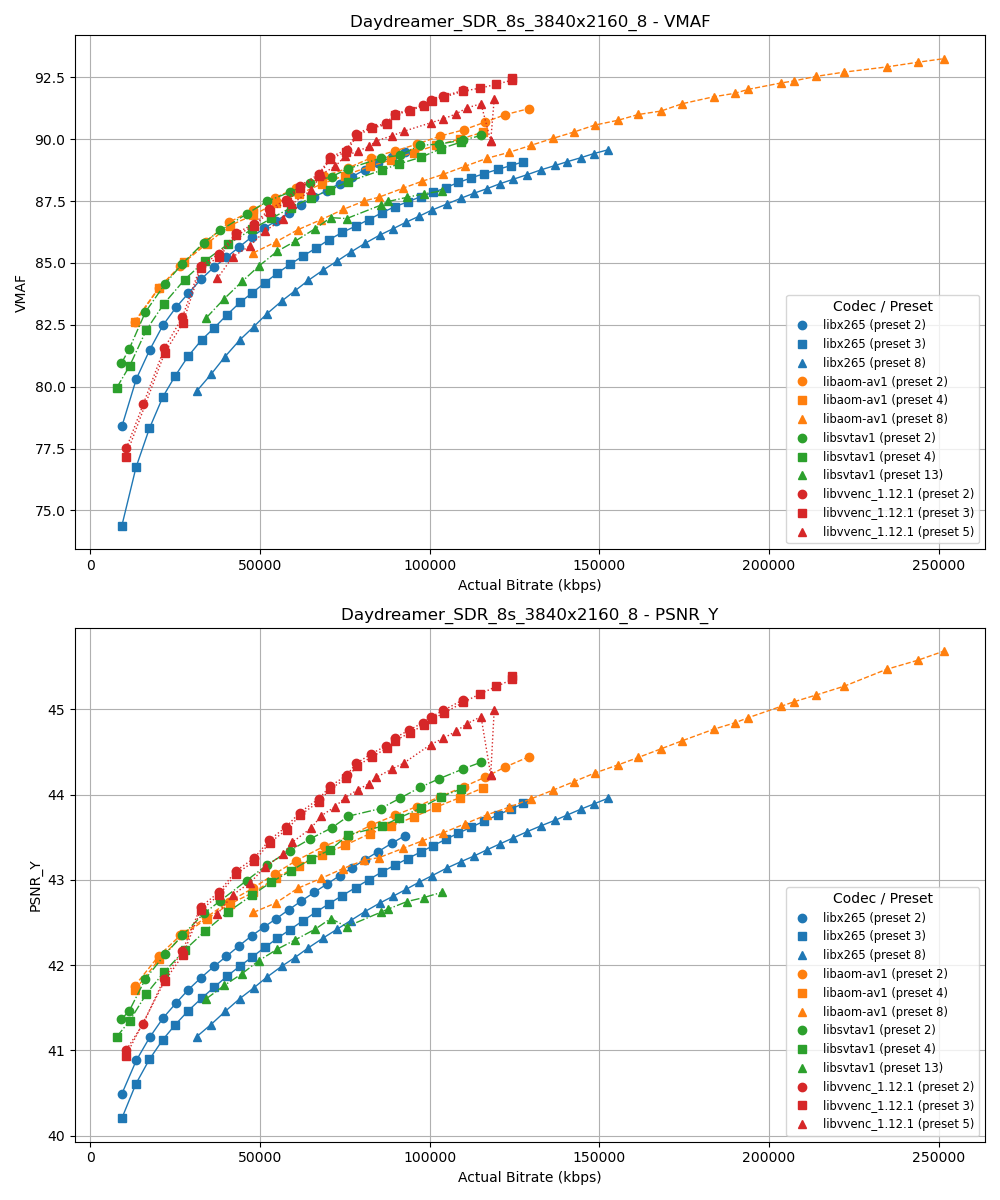
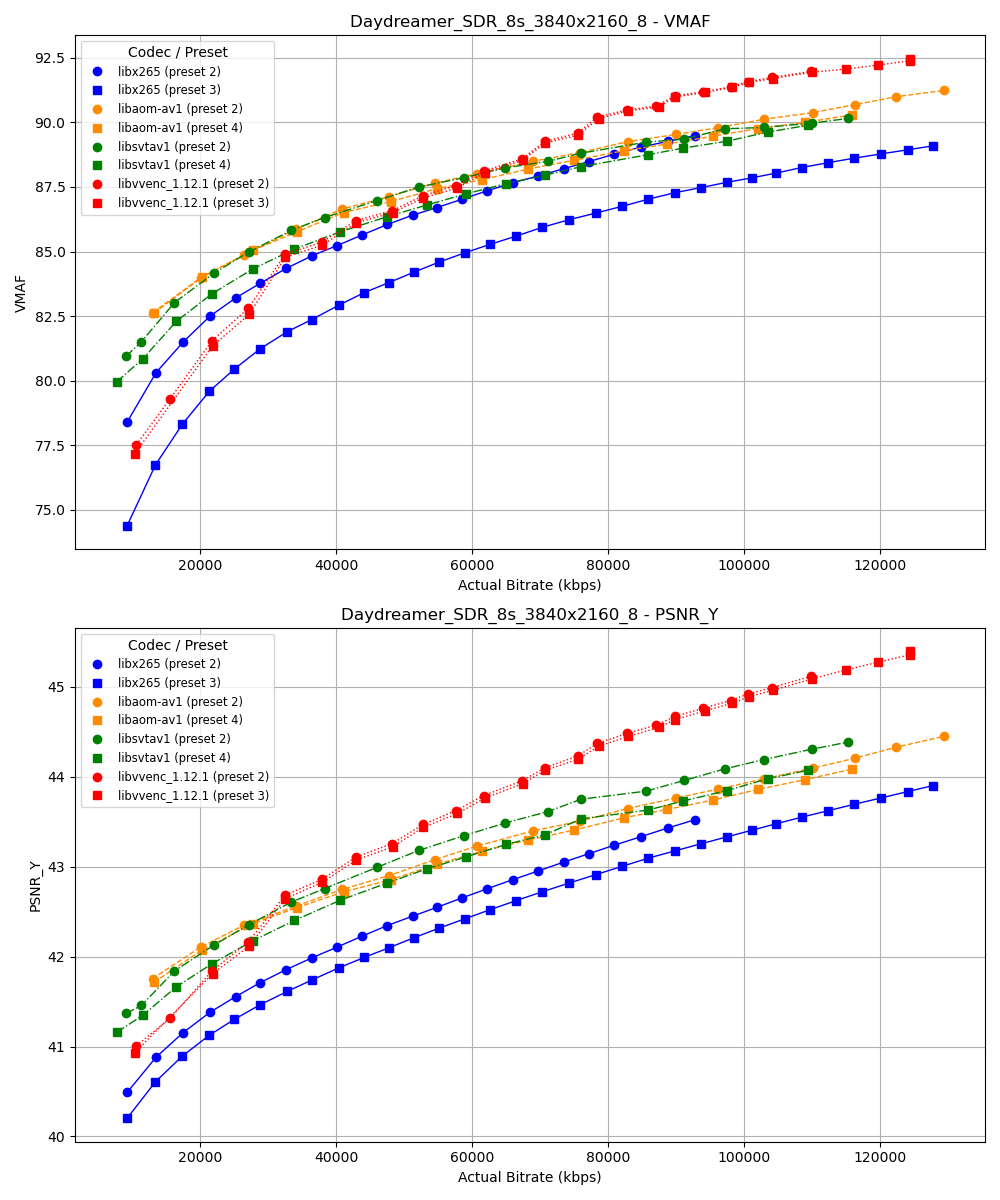
Csv fixes

diff --git a/csv/graphs_preset.py b/csv/graphs_preset.py
@@ -3,7 +3,6 @@ import numpy as np
 import matplotlib.pyplot as plt
 import os
 import sys
-
 import matplotlib.colors as mcolors
 
 def generate_plots_by_sequence(csv_file):
@@ -18,6 +17,9 @@ def generate_plots_by_sequence(csv_file):
         print(f"Il file CSV manca di una o più colonne richieste: {required_columns}")
         return
 
+    # Filtra i preset 0 e 1
+    data = data[~data['preset'].isin([0, 1])]
+
     base_output_dir = os.path.join(os.getcwd(), "plots_by_sequence")
     os.makedirs(base_output_dir, exist_ok=True)
 
@@ -25,7 +27,14 @@ def generate_plots_by_sequence(csv_file):
     metrics = ['vmaf', 'psnr_y']
     line_styles = ['-', '--', '-.', ':']  # Stile linea per codec
     markers = ['o', 's', '^', 'D', 'x', '+']  # Marker per preset
-    colors = list(mcolors.TABLEAU_COLORS.values())  # Lista di colori predefiniti
+    
+    codec_colors = {
+        "libx265": "blue",
+        "libaom-av1": "darkorange",
+        "libvvenc_1.12.1": "red",
+        "libsvtav1": "green"
+    }
+    default_colors = list(mcolors.TABLEAU_COLORS.values())  # Colori predefiniti
 
     for seq in sequences:
         subset = data[data['seq_name'] == seq]
@@ -33,7 +42,15 @@ def generate_plots_by_sequence(csv_file):
         presets = sorted(subset['preset'].astype(str).unique(), key=lambda x: int(x) if x.isdigit() else float('inf'))
 
         fig, axs = plt.subplots(2, 1, figsize=(10, 12))  # Disposizione verticale
-        color_map = {codec: colors[i % len(colors)] for i, codec in enumerate(codecs)}  # Mappa codec -> colore
+        
+        color_map = {}
+        color_index = 0
+        for codec in codecs:
+            if codec in codec_colors:
+                color_map[codec] = codec_colors[codec]
+            else:
+                color_map[codec] = default_colors[color_index % len(default_colors)]
+                color_index += 1
 
         for metric_idx, metric in enumerate(metrics):
             ax = axs[metric_idx]

diff --git a/csv/csv5/rename_sequences.py b/csv/csv5/rename_sequences.py
@@ -1,7 +1,7 @@
 import pandas as pd
 
 # Percorso del file originale
-file_path = 'merged_results_updated_new_test7.csv'
+file_path = 'out.csv'
 
 # Caricamento del file CSV
 df = pd.read_csv(file_path)
@@ -12,7 +12,8 @@ sequence_name_changes = {
     "Sparks_cut_15": "Sparks_cut_15_4K",
     "cutting_orange_tuil": "cutting_orange_tuil_4k",
     "water_netflix": "water_netflix_4k",
-    "bigbuck_bunny_8bit": "bigbuck_bunny_8bit_4k"
+    "bigbuck_bunny_8bit": "bigbuck_bunny_8bit_4k",
+    "vegetables_tuil": "vegetables_tuil_4k"
 }
 
 # Modifica dei nomi delle sequenze

diff --git a/csv/graphs_user_time.py b/csv/graphs_user_time.py
@@ -15,6 +15,9 @@ def generate_execution_time_histograms(csv_file):
         print(f"Il file CSV manca di una o più colonne richieste: {required_columns}")
         return
 
+    # Filtra i preset 0 e 1
+    data = data[~data['preset'].isin([0, 1])]
+
     base_output_dir = os.path.join(os.getcwd(), "execution_time_histograms")
     os.makedirs(base_output_dir, exist_ok=True)
 
@@ -65,4 +68,5 @@ if __name__ == "__main__":
     else:
         csv_file = sys.argv[1]
         generate_execution_time_histograms(csv_file)
+
 
